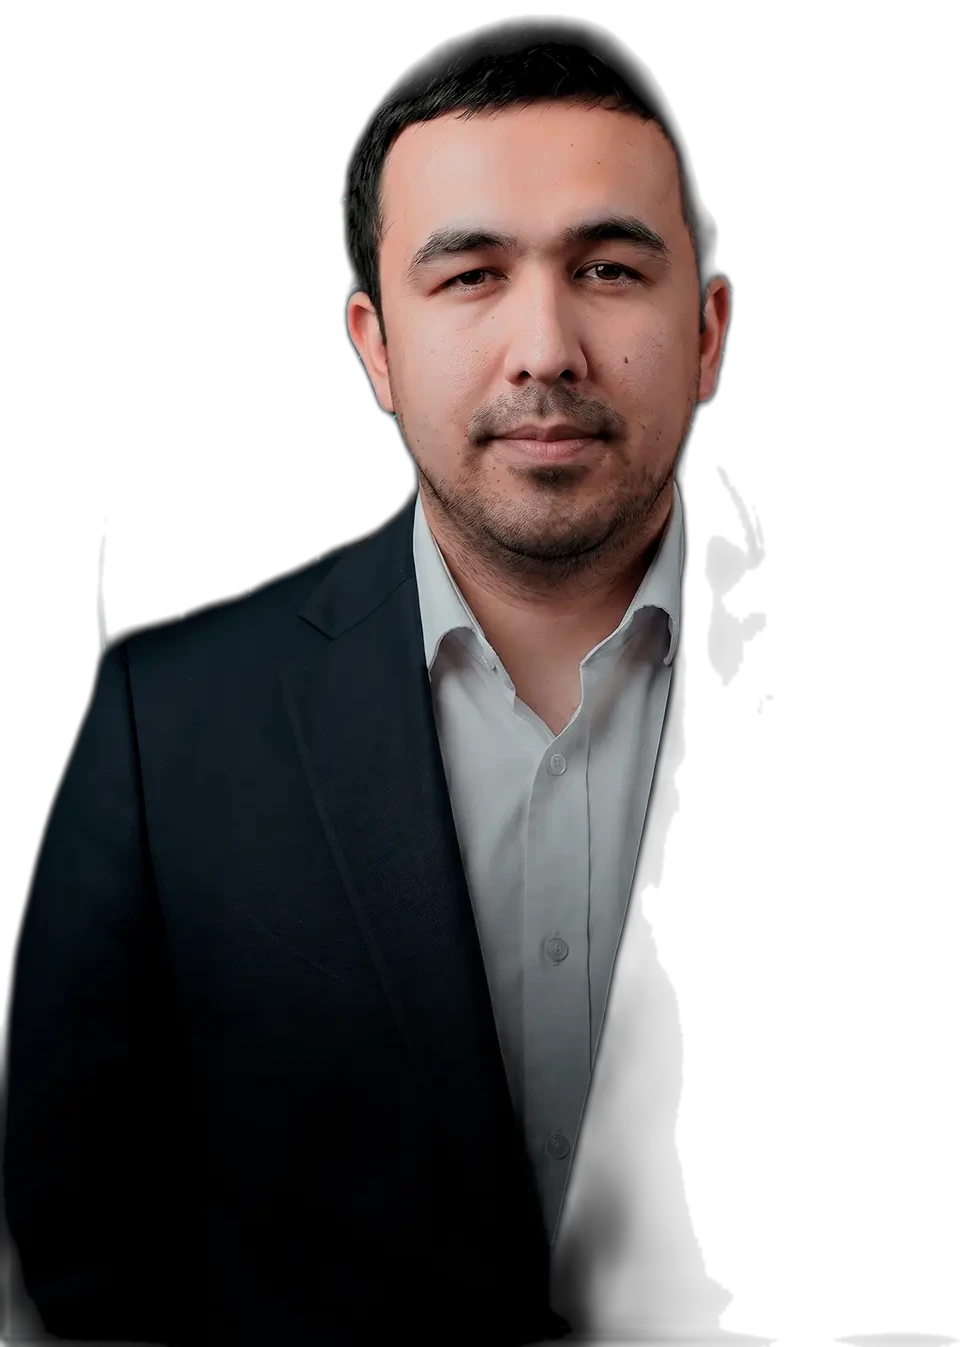
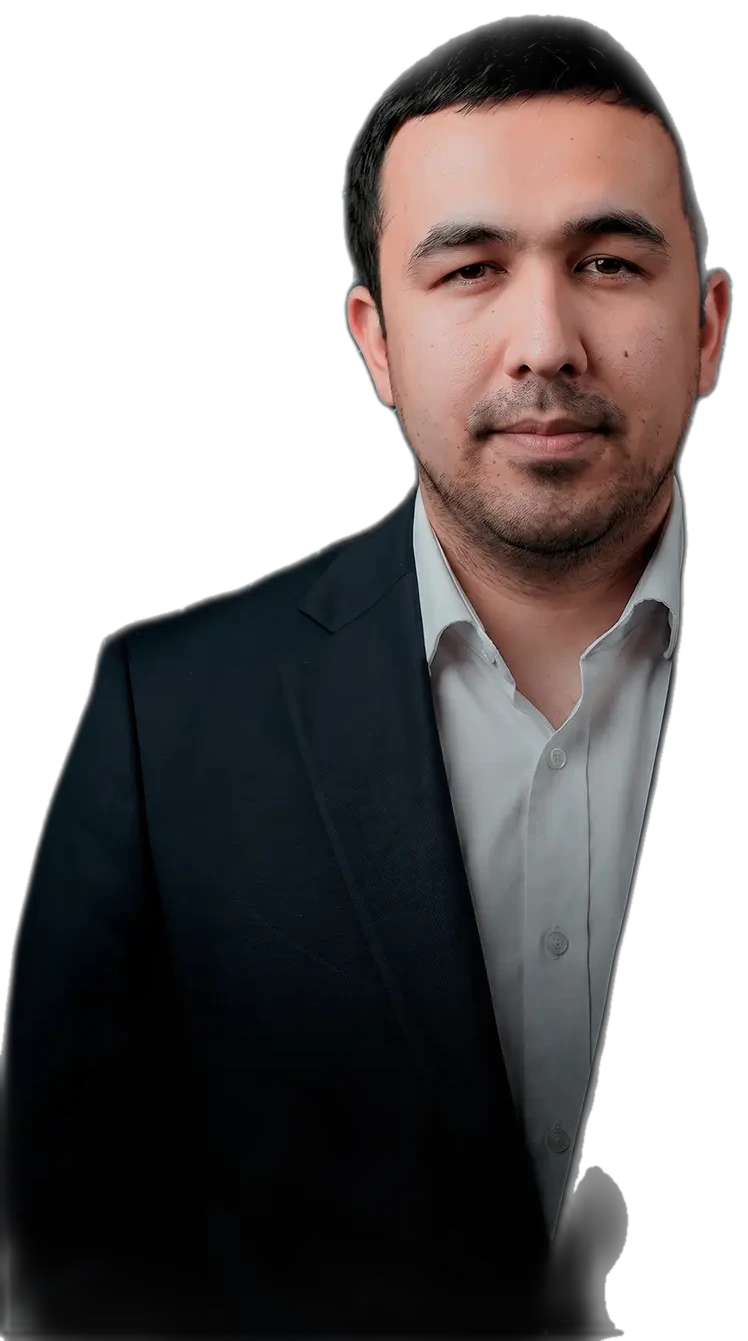
Fon olib tashlashni yaxshilash (ghost artefaktlarni tozalash)

diff --git a/index.html b/index.html
@@ -193,7 +193,7 @@
   <p class="lede">Biznesingizga mos AI tizimini 0 dan qanday yaratishni bilib oling. Sun'iy intellektning biznesingizga foydasi, uni integratsiya qilish va imkoniyatlaridan samarali foydalanishni bilib oling.</p>
 
   <div class="hero-photo">
-    <img src="img/spiker.webp" alt="Seminar spikeri" width="973" height="1347" loading="eager">
+    <img src="img/spiker.webp" alt="Seminar spikeri" width="748" height="1341" loading="eager">
   </div>
 
   <a class="cta" href="#event">Seminarga yozilish →</a>
